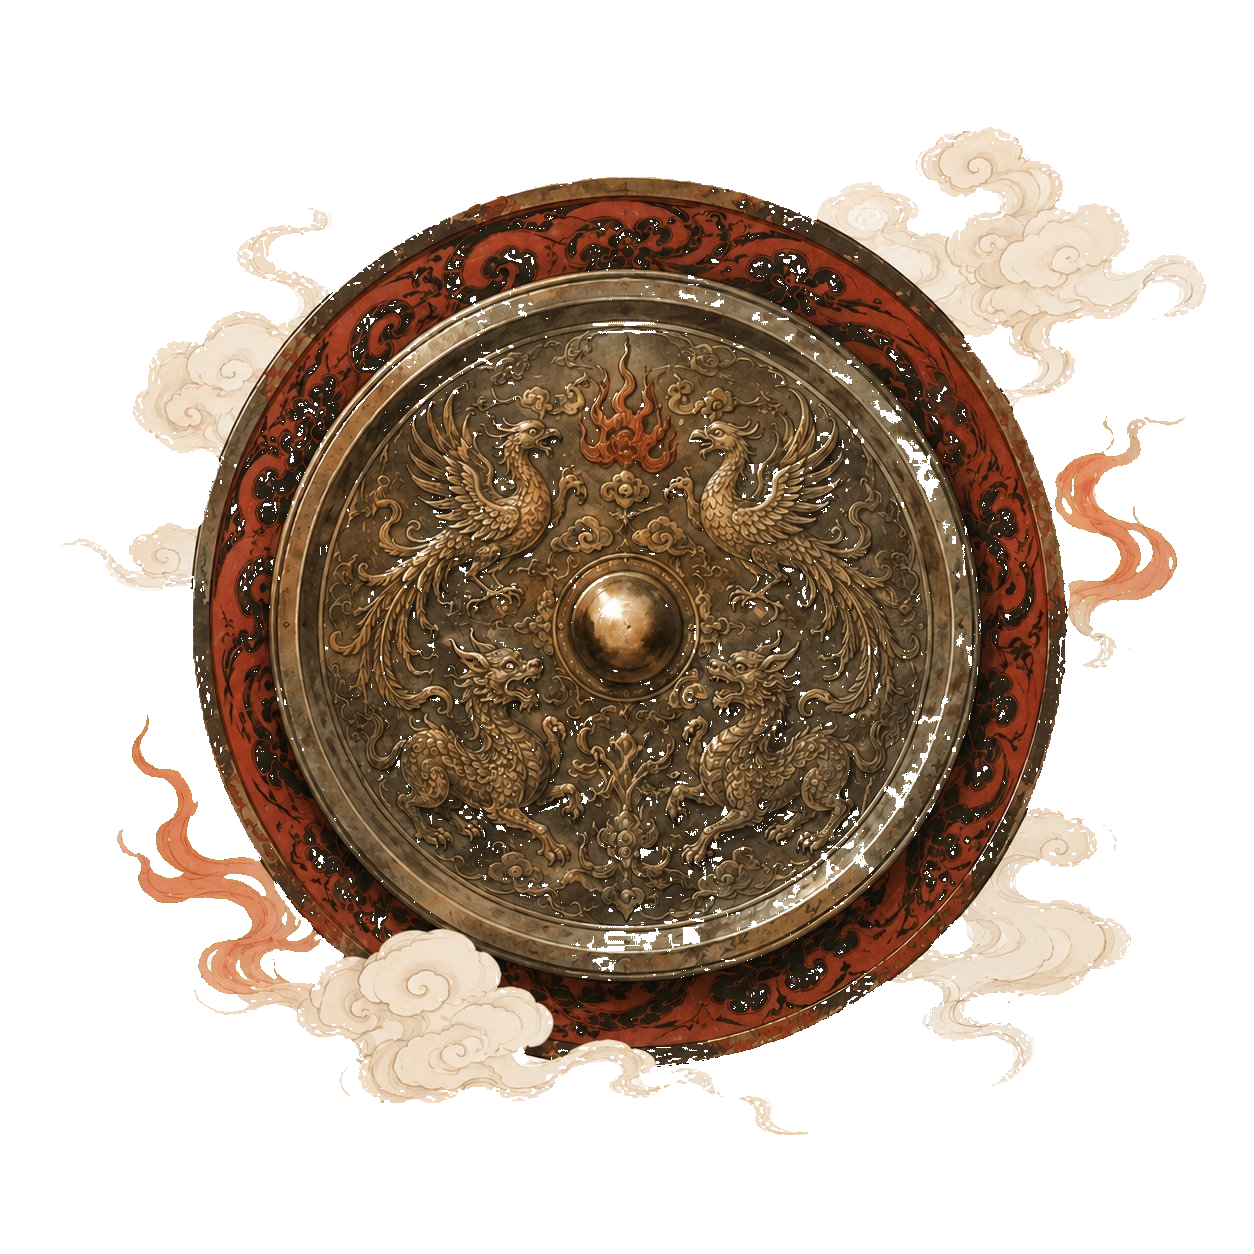
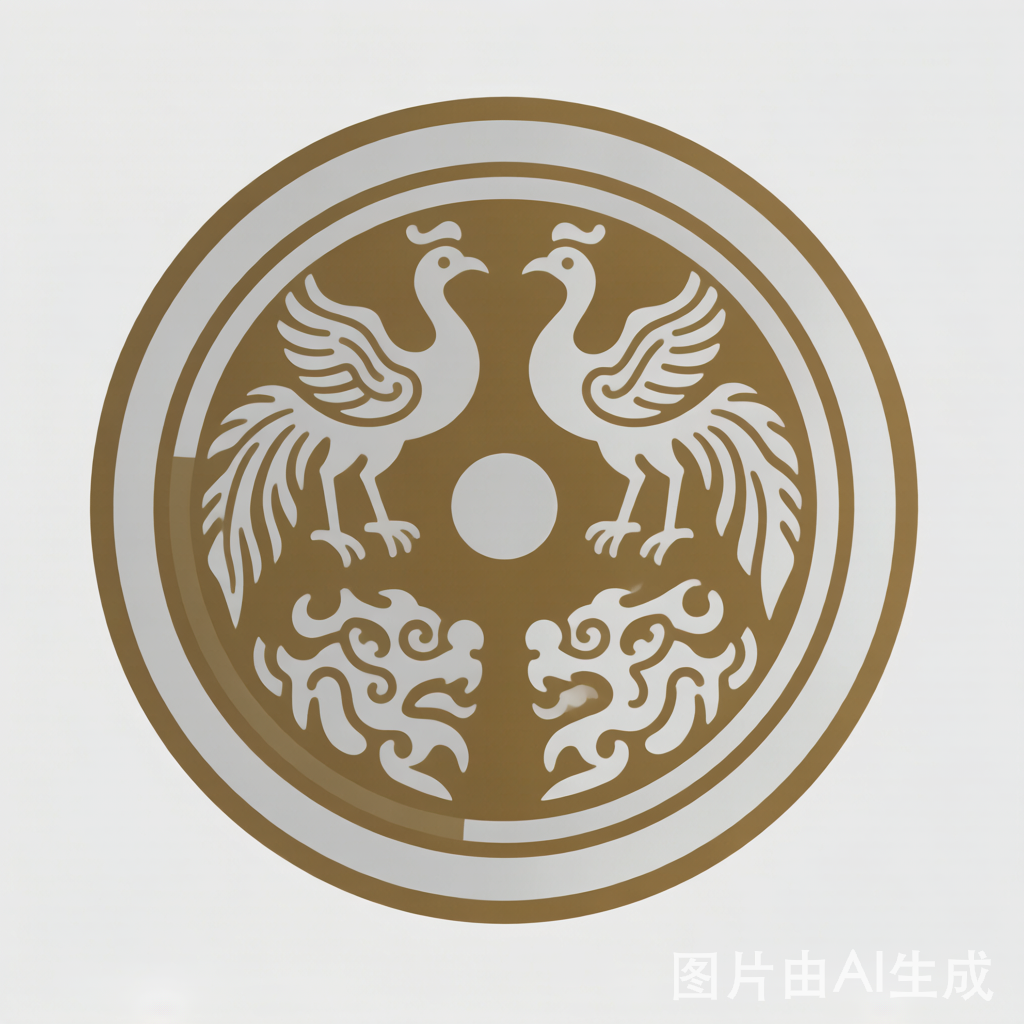
feat: 卡牌技能全中文化 + 20张AI重绘极简风贴图
- cards.js: CARD_VISUALS扩展至20张新卡(emoji/颜色/标签/图片路径)
- cards.js: EFFECT_LABELS补全9种效果中文标签
- cards.js: CARD_RARITY更新为新卡ID(3分=legendary/2分=rare/1分=common)
- game.js: 技能标签修正(龙凤联动/重掷取高/敦煌飞天)
- gameEngine.js: console.log旧卡名替换为新卡名
- 删除17张旧卡牌图片(dsy/jxjeb/jxsp/lfh/mfl/ssdc/ssyz/yulb等)
- 新增18张+替换2张AI生成极简风贴图(1024x1024)
- 清理所有旧卡ID引用，代码中无残留

diff --git a/client/js/cards.js b/client/js/cards.js
@@ -3,24 +3,41 @@
 // ============================================================
 
 const CARD_VISUALS = {
-  'ssdc': { emoji: '👘', color: '#E8D5B7', label: '丝', image: 'assets/cards/ssdc.png' },
-  'mfl':  { emoji: '🏺', color: '#B8860B', label: '铜', image: 'assets/cards/mfl.png' },
-  'slj':  { emoji: '🪞', color: '#C0C0C0', label: '镜', image: 'assets/cards/slj.png' },
-  'ssyz': { emoji: '🍶', color: '#98FB98', label: '玉', image: 'assets/cards/ssyz.png' },
-  'yulb': { emoji: '🐉', color: '#FFD700', label: '龙', image: 'assets/cards/yulb.png' },
-  'lfh':  { emoji: '🕊️', color: '#FF6347', label: '凤', image: 'assets/cards/lfh.png' },
-  'jxsp': { emoji: '🍽️', color: '#8B4513', label: '漆', image: 'assets/cards/jxsp.png' },
-  'jxjeb':{ emoji: '🍷', color: '#A0522D', label: '漆', image: 'assets/cards/jxjeb.png' },
-  'dsy':  { emoji: '🎭', color: '#DEB887', label: '俑', image: 'assets/cards/dsy.png' },
-  'sq':   { emoji: '📜', color: '#F5DEB3', label: '券', image: 'assets/cards/sq.png' },
+  // --- 3分·国之重器 ---
+  'sxqts': { emoji: '🌳', color: '#8B6914', label: '树', image: 'assets/cards/sxqts.png' },
+  'qsbmy': { emoji: '🗿', color: '#8B7355', label: '俑', image: 'assets/cards/qsbmy.png' },
+  'qmht':  { emoji: '📜', color: '#2E5C8A', label: '画', image: 'assets/cards/qmht.png' },
+  'syfz':  { emoji: '🐏', color: '#B8860B', label: '尊', image: 'assets/cards/syfz.png' },
+  // --- 2分·珍品雅器 ---
+  'slj':   { emoji: '🪞', color: '#C0C0C0', label: '镜', image: 'assets/cards/slj.png' },
+  'jlyy':  { emoji: '💎', color: '#98FB98', label: '玉', image: 'assets/cards/jlyy.png' },
+  'ltsx':  { emoji: '🖌️', color: '#2E5C8A', label: '书', image: 'assets/cards/ltsx.png' },
+  'zhybz': { emoji: '🔔', color: '#B8860B', label: '钟', image: 'assets/cards/zhybz.png' },
+  'yqz':   { emoji: '🍵', color: '#A0D8E8', label: '盏', image: 'assets/cards/yqz.png' },
+  'yqh':   { emoji: '🏺', color: '#4682B4', label: '瓷', image: 'assets/cards/yqh.png' },
+  'dhmh':  { emoji: '🛡️', color: '#D4A017', label: '壁', image: 'assets/cards/dhmh.png' },
+  'rytqy': { emoji: '🫖', color: '#A0D8E8', label: '窑', image: 'assets/cards/rytqy.png' },
+  // --- 1分·文明遗珍 ---
+  'kxqt':  { emoji: '❄️', color: '#4682B4', label: '帖', image: 'assets/cards/kxqt.png' },
+  'jgpx':  { emoji: '🐢', color: '#8B4513', label: '甲', image: 'assets/cards/jgpx.png' },
+  'dhft':  { emoji: '🧚', color: '#D4A017', label: '飞', image: 'assets/cards/dhft.png' },
+  'sq':    { emoji: '📜', color: '#F5DEB3', label: '券', image: 'assets/cards/sq.png' },
+  'sxtc':  { emoji: '🐪', color: '#D2691E', label: '驼', image: 'assets/cards/sxtc.png' },
+  'cjgb':  { emoji: '🍷', color: '#DC143C', label: '杯', image: 'assets/cards/cjgb.png' },
+  'jofjg': { emoji: '🏆', color: '#FFD700', label: '杯', image: 'assets/cards/jofjg.png' },
+  'dhcxb': { emoji: '✒️', color: '#8B4513', label: '笔', image: 'assets/cards/dhcxb.png' },
 };
 
 const EFFECT_LABELS = {
-  dragonPhoenix: '🐉🕊️ 龙凤联动',
-  rerollDice: '🎲 重掷一次',
-  upgradeDice: '⬆️ 骰子升级',
+  dragonPhoenix:    '🐉🐉 龙凤联动',
+  rerollDice:       '🎲 重掷取高',
+  soloReroll:       '🎲 独立重掷',
+  upgradeDice:      '⬆️ 骰子升级',
   doubleCommission: '💰 佣金翻倍',
-  duel: '🪞 镜中决斗',
+  duel:             '🪞 镜中决斗',
+  extraScore:       '📜 终局加分',
+  passiveIncome:    '🐪 每轮收入',
+  streakShield:     '🛡️ 惩罚减半',
 };
 
 const PHASE_LABELS = {
@@ -34,11 +51,14 @@ const PHASE_LABELS = {
 };
 
 const CARD_RARITY = {
-  'ssdc': 'legendary', 'mfl': 'legendary',  // 3分卡 → 传说
-  'ssyz': 'rare', 'slj': 'rare',            // 2分卡
-  'yulb': 'rare', 'jxjeb': 'rare',          // 联动关键卡
-  'lfh': 'common', 'jxsp': 'common',        // 1分联动卡
-  'dsy': 'common', 'sq': 'common',          // 1分功能卡
+  // 3分卡 → 传说
+  'sxqts': 'legendary', 'qsbmy': 'legendary', 'qmht': 'legendary', 'syfz': 'legendary',
+  // 2分卡 → 珍品
+  'slj': 'rare', 'jlyy': 'rare', 'ltsx': 'rare', 'zhybz': 'rare',
+  'yqz': 'rare', 'yqh': 'rare', 'dhmh': 'rare', 'rytqy': 'rare',
+  // 1分卡 → 普通
+  'kxqt': 'common', 'jgpx': 'common', 'dhft': 'common', 'sq': 'common',
+  'sxtc': 'common', 'cjgb': 'common', 'jofjg': 'common', 'dhcxb': 'common',
 };
 
 function getCardRarity(cardId) {

diff --git a/server/gameEngine.js b/server/gameEngine.js
@@ -368,8 +368,8 @@ function upgradeDice(roomId, playerId) {
   if (!currentDice || currentDice === 'pass') return { error: '你还未选骰子或已放弃' };
 
   const dsyCard = p.cards.find(c => c.id === 'dhft');
-  if (!dsyCard) return { error: '你没有对书俑' };
-  if (dsyCard.used) return { error: '对书俑已使用过' };
+  if (!dsyCard) return { error: '你没有敦煌飞天' };
+  if (dsyCard.used) return { error: '敦煌飞天已使用过' };
 
   const upgraded = DICE_UPGRADE[currentDice];
   if (!upgraded) return { error: `${currentDice} 不可升级` };
@@ -378,7 +378,7 @@ function upgradeDice(roomId, playerId) {
   state.diceSelections[playerId] = upgraded;
   state.playersDone.add(playerId);
 
-  console.log(`[引擎] ${p.nickname} 使用对书俑升级骰子：${currentDice} → ${upgraded}`);
+  console.log(`[引擎] ${p.nickname} 使用敦煌飞天升级骰子：${currentDice} → ${upgraded}`);
   broadcast(roomId);
   return { ok: true, from: currentDice, to: upgraded };
 }
@@ -647,7 +647,7 @@ function _settleCommission(state) {
   // streakShield（敦煌壁画）：连任惩罚减半（向下取整）
   if (auctioneer.cards.some(c => c.id === 'dhmh')) {
     penalty = Math.floor(penalty / 2);
-    console.log(`[引擎] 漆奁盒生效！连任惩罚减半 → $${penalty}`);
+    console.log(`[引擎] 敦煌壁画生效！连任惩罚减半 → $${penalty}`);
   }
 
   const net = commission - penalty;
@@ -810,7 +810,7 @@ function duelRentDice(socket, io, roomId, diceType, useUpgrade = false) {
       // 标记已使用
       const scholarCard = player.cards.find(c => c.id === 'dhft');
       if (scholarCard) scholarCard.used = true;
-      console.log(`[引擎] 🪞 决斗 ${player.nickname} 使用对书俑升级骰子：${diceType} → ${finalDiceType}`);
+      console.log(`[引擎] 🪞 决斗 ${player.nickname} 使用敦煌飞天升级骰子：${diceType} → ${finalDiceType}`);
     }
   }
 
@@ -1074,7 +1074,7 @@ function duelRentDiceById(roomId, playerId, diceType, useUpgrade) {
       finalDiceType = DICE_UPGRADE[diceType] || diceType;
       const scholarCard = player.cards.find(c => c.id === 'dhft');
       if (scholarCard) scholarCard.used = true;
-      console.log(`[引擎] 🪞 Bot决斗 ${player.nickname} 对书俑升级：${diceType} → ${finalDiceType}`);
+      console.log(`[引擎] 🪞 Bot决斗 ${player.nickname} 敦煌飞天升级：${diceType} → ${finalDiceType}`);
     }
   }
 
@@ -1159,7 +1159,7 @@ function endRound(roomId) {
     // passiveIncome（三彩驼）：每轮额外+$1
     if (p.cards.some(c => c.id === 'sxtc')) {
       p.funds += 1;
-      console.log(`[引擎] ${p.nickname} 彩绘木俑生效，额外+$1`);
+      console.log(`[引擎] ${p.nickname} 三彩驼生效，额外+$1`);
     }
   }
 

diff --git a/client/js/game.js b/client/js/game.js
@@ -316,7 +316,7 @@ function _renderRentDice(view, container) {
   const upgradeCheckbox = hasUpgrade ? `
     <label class="upgrade-checkbox">
       <input type="checkbox" id="useUpgradeCheck" onchange="onUpgradeCheckChange()" />
-      <span class="upgrade-check-label">⬆️ 使用对书俑升级骰子（本轮限用一次）</span>
+      <span class="upgrade-check-label">⬆️ 使用敦煌飞天升级骰子（本轮限用一次）</span>
     </label>
   ` : '';
 
@@ -760,7 +760,7 @@ function _renderDuelRentDice(view, container) {
   const upgradeCheckbox = hasUpgrade ? `
     <label class="upgrade-checkbox">
       <input type="checkbox" id="useUpgradeCheck" onchange="onUpgradeCheckChange()" />
-      <span class="upgrade-check-label">⬆️ 使用对书俑升级骰子（本轮限用一次）</span>
+      <span class="upgrade-check-label">⬆️ 使用敦煌飞天升级骰子（本轮限用一次）</span>
     </label>
   ` : '';
 
@@ -1398,7 +1398,7 @@ function _renderPlayerList(view) {
     if (p.hasUpgrade) effectIcons.push('⬆️');
     if (p.cards && p.cards.some(c => c.id === 'slj' && !c.used)) effectIcons.push('🪞');
     if (p.cards && p.cards.some(c => c.id === 'qmht')) effectIcons.push('📜');
-    if (p.cards && p.cards.some(c => c.id === 'sxtc')) effectIcons.push('🧱');
+    if (p.cards && p.cards.some(c => c.id === 'sxtc')) effectIcons.push('🐪');
     if (p.cards && p.cards.some(c => c.id === 'dhmh')) effectIcons.push('🛡️');
     const effects = effectIcons.join(' ');
 
@@ -1433,8 +1433,8 @@ function _renderPlayerList(view) {
 
     // 技能详情
     let skillDetail = [];
-    if (p.hasDragonPhoenix) skillDetail.push('🐉🐉 双龙联动');
-    if (p.hasReroll) skillDetail.push('🎲🎲 双掷');
+    if (p.hasDragonPhoenix) skillDetail.push('🐉🐉 龙凤联动');
+    if (p.hasReroll) skillDetail.push('🎲🎲 重掷取高');
     if (p.hasDoubleComm) skillDetail.push('💰 佣金翻倍');
     if (p.hasUpgrade) skillDetail.push('⬆️ 骰子升级（可用）');
     else if (p.cards && p.cards.some(c => c.id === 'dhft' && c.used)) skillDetail.push('⬆️ 骰子升级（已使用）');
@@ -1443,7 +1443,7 @@ function _renderPlayerList(view) {
       skillDetail.push(sljCard?.used ? '🪞 镜中决斗（已使用）' : '🪞 镜中决斗');
     }
     if (p.cards && p.cards.some(c => c.id === 'qmht')) skillDetail.push('📜 终局加分');
-    if (p.cards && p.cards.some(c => c.id === 'sxtc')) skillDetail.push('🧱 每轮收入');
+    if (p.cards && p.cards.some(c => c.id === 'sxtc')) skillDetail.push('🐪 每轮收入');
     if (p.cards && p.cards.some(c => c.id === 'dhmh')) skillDetail.push('🛡️ 惩罚减半');
     const skillStr = skillDetail.length ? `<div class="pl-skills">${skillDetail.join(' | ')}</div>` : '';
 